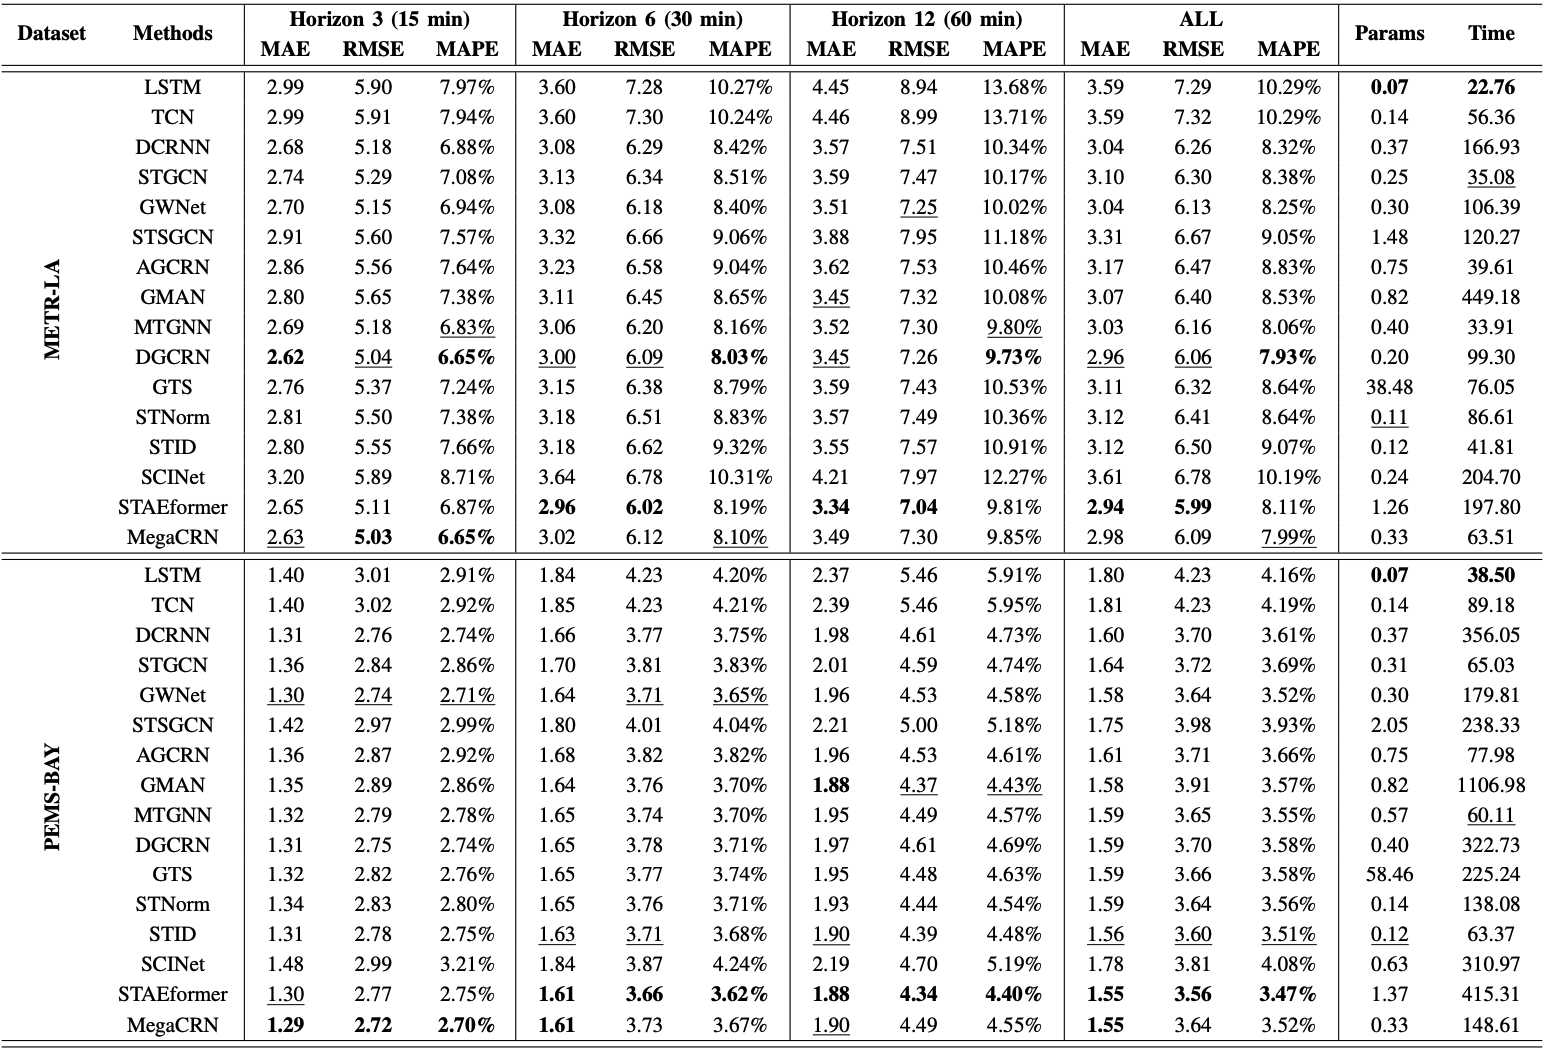
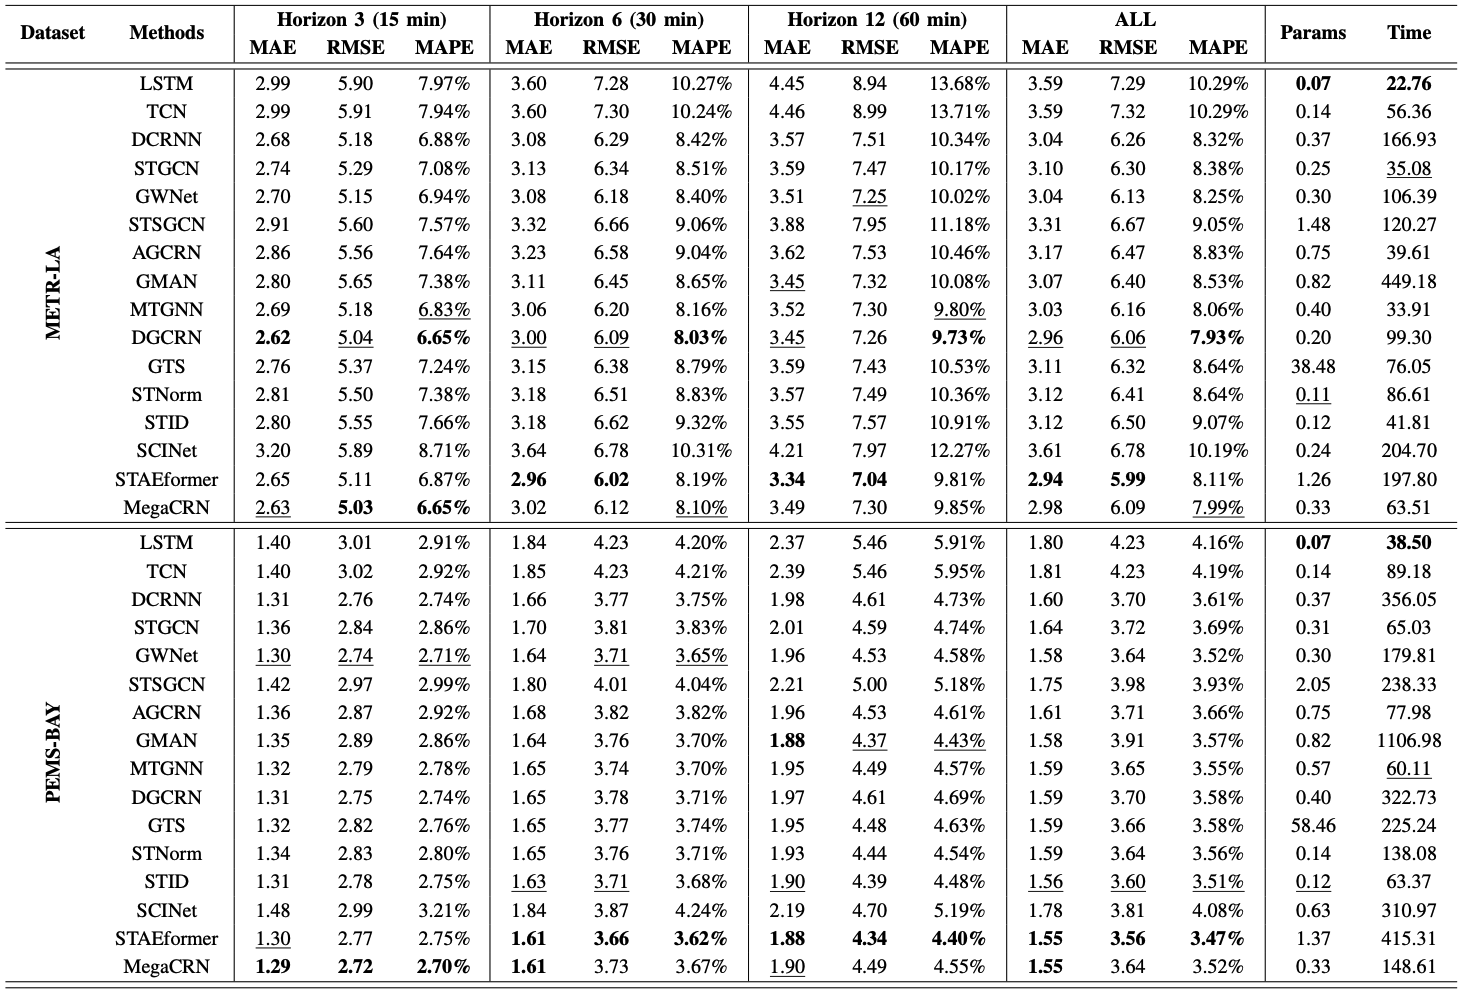
doc: Correct errors in the results table and include the hyperparameter study results

Changed region(s): [[0.0, 0.0, 1.0, 1.0], [0.0307, 0.7144, 0.0614, 0.8076], [0.0307, 0.2485, 0.0614, 0.3417]]

diff --git a/results/README.md b/results/README.md
@@ -10,3 +10,17 @@
     <h3><b> Performance on Electricity, Solar Energy, Traffic and Exchange Rate. </b></h3>
     <img src="./Single_step.png" style="width:80%; height:auto;">
 </div>
+
+---
+
+<div align="center">
+    <h3><b> Performance comparison of different look-back time window lengths P </b></h3>
+    <img src="./lookback_time_window_lengths.png" style="width:80%; height:auto;">
+</div>
+
+---
+
+<div align="center">
+    <h3><b> Performance comparison of different  normalization method </b></h3>
+    <img src="./normalization_method.png" style="width:80%; height:auto;">
+</div>
